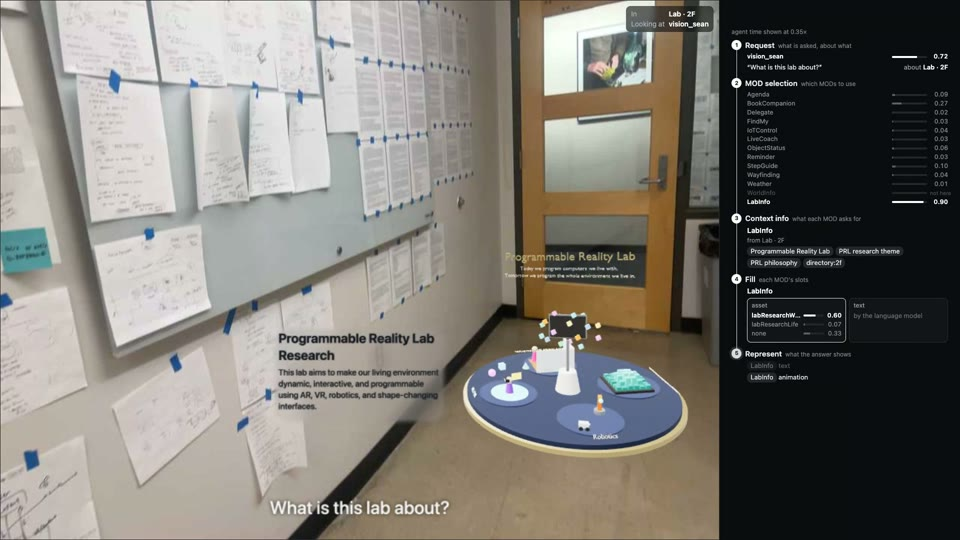
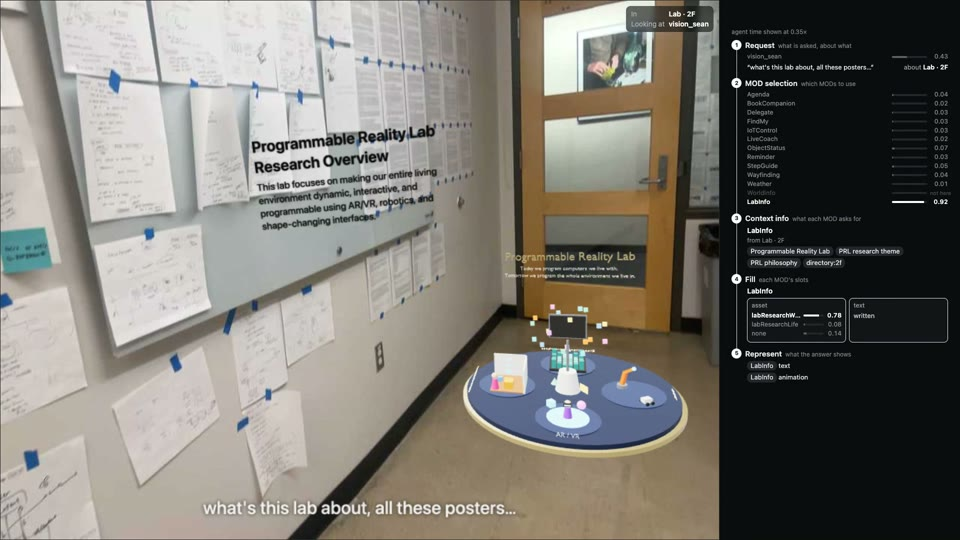
Natural clip questions re-recorded; yes/no rule covers fillers and dropped verbs; BookCompanion reads user:reading; whose-job printer clip

diff --git a/context/recordings/manifest.js b/context/recordings/manifest.js
@@ -1,1 +1,1 @@
-window.MANIFEST={"clips":{"weather-corridor":{"name":"weather-corridor","mod":"Weather","question":"Do I need an umbrella tonight?","recording":"atlas_rec_2","ask_at":1,"video":"weather/weather-corridor.mp4","poster":"weather/weather-corridor.jpg","chosen":[["weather",0.98]],"answer":{"title":"No Umbrella Needed Tonight","body":"You won't need an umbrella tonight as soft snowfall is forecasted instead of rain."},"latency":1.23,"agent_speed":0.35},"worldinfo-text":{"name":"worldinfo-text","mod":"WorldInfo","question":"What is this study about?","recording":"atlas_rec_3","ask_at":48.6,"video":"worldinfo/worldinfo-text.mp4","poster":"worldinfo/worldinfo-text.jpg","chosen":[["worldinfo",1]],"answer":{"title":"Music-Brain User Study Details","body":"This user study is conducted by the Brain Music Lab. You can scan to sign up after reading the eligibility requirements."},"latency":2.99,"agent_speed":0.35},"delegate-poster":{"name":"delegate-poster","mod":"Delegate","question":"Send this poster to Alice","recording":"atlas_rec_2","ask_at":7.1,"video":"delegate/delegate-poster.mp4","poster":"delegate/delegate-poster.jpg","chosen":[["delegate",0.98]],"answer":{"title":"Anastasia's Talk Poster","body":"Hi Alice, here is the poster for Anastasia's talk for your reference."},"latency":2.71,"agent_speed":0.35},"worldinfo-voice":{"name":"worldinfo-voice","mod":"WorldInfo","question":"Can I eat you?","recording":"atlas_rec_3","ask_at":18.1,"video":"worldinfo/worldinfo-voice.mp4","poster":"worldinfo/worldinfo-voice.jpg","chosen":[["worldinfo",1]],"answer":{"title":"Candy Availability","body":"Yes, you can eat me because I am leftover candy from this week's grad tea and people are welcome to help themselves."},"latency":2.48,"agent_speed":0.35},"labinfo-wall":{"name":"labinfo-wall","mod":"LabInfo","question":"What is this lab about?","recording":"atlas_rec_4","ask_at":1,"video":"labinfo/labinfo-wall.mp4","poster":"labinfo/labinfo-wall.jpg","chosen":[["labinfo",0.9]],"answer":{"title":"Programmable Reality Lab Research","body":"This lab aims to make our living environment dynamic, interactive, and programmable using AR, VR, robotics, and shape-changing interfaces."},"latency":1.97,"agent_speed":0.35},"findmy":{"name":"findmy","mod":"FindMy","question":"Where are my headphones?","recording":"atlas_rec_4","ask_at":7,"video":"findmy/findmy.mp4","poster":"findmy/findmy.jpg","chosen":[["findmy",0.92]],"answer":{"title":"Headphones Location","body":"Your headphones are on shelf 3."},"latency":1.02,"agent_speed":0.35},"wayfinding-kitchen":{"name":"wayfinding-kitchen","mod":"Wayfinding","question":"How do I get to the kitchen?","recording":"atlas_rec_4","ask_at":1,"video":"wayfinding/wayfinding-kitchen.mp4","poster":"wayfinding/wayfinding-kitchen.jpg","chosen":[["wayfinding",0.98]],"answer":{"title":"Directions to the Kitchen","body":"Exit the lab, turn right into the lab corridor, go north to the central corridor, and find the kitchen on your left."},"latency":1.05,"agent_speed":0.35},"agenda-afternoon":{"name":"agenda-afternoon","mod":"Agenda","question":"What do I have this afternoon?","recording":"atlas_rec_4","ask_at":2.5,"video":"agenda/agenda-afternoon.mp4","poster":"agenda/agenda-afternoon.jpg","chosen":[["agenda",0.97]],"answer":{"title":"Afternoon Schedule","body":"You have badminton and a group meeting this afternoon."},"latency":1.16,"agent_speed":0.35},"labinfo-panorama":{"name":"labinfo-panorama","mod":"LabInfo","question":"What does this lab work on?","recording":"atlas_rec_5","ask_at":1,"video":"labinfo/labinfo-panorama.mp4","poster":"labinfo/labinfo-panorama.jpg","chosen":[["labinfo",0.95]],"answer":{"title":"Programmable Reality Lab Research","body":"PRL researches programmable reality, aiming to make the living environment dynamic and interactive through AR/VR, robotics, and shape-changing interfaces."},"latency":1.76,"agent_speed":0.35},"weather-lab":{"name":"weather-lab","mod":"Weather","question":"Will it rain this weekend?","recording":"atlas_rec_5","ask_at":1.5,"video":"weather/weather-lab.mp4","poster":"weather/weather-lab.jpg","chosen":[["weather",0.98]],"answer":{"title":"Weekend weather forecast","body":"No rain is expected this weekend. Saturday brings drifting mist, clear skies, and soft snowfall, while Sunday features drifting mist and soft snowfall."},"latency":1.24,"agent_speed":0.35},"iotcontrol-brighter":{"name":"iotcontrol-brighter","mod":"IoTControl","question":"I want to make the light brighter","recording":"atlas_rec_5","ask_at":1,"video":"iotcontrol/iotcontrol-brighter.mp4","poster":"iotcontrol/iotcontrol-brighter.jpg","chosen":[["iotcontrol",0.98]],"answer":{"title":"Desk Lamp Brightness Increased","body":"I have increased the desk lamp brightness to 60 percent."},"latency":1.04,"agent_speed":0.35},"objectstatus-printer":{"name":"objectstatus-printer","mod":"ObjectStatus","question":"Is the printer free?","recording":"atlas_rec_5","ask_at":1,"video":"objectstatus/objectstatus-printer.mp4","poster":"objectstatus/objectstatus-printer.jpg","chosen":[["objectstatus",0.98]],"answer":{"title":"Printer Status","body":"No, the printer is in use printing a 12-page poster for Ana and has about 4 minutes left."},"latency":1.15,"agent_speed":0.35},"iotcontrol-printer":{"name":"iotcontrol-printer","mod":"IoTControl","question":"How long until my print job is done?","recording":"atlas_rec_5","ask_at":1,"video":"iotcontrol/iotcontrol-printer.mp4","poster":"iotcontrol/iotcontrol-printer.jpg","chosen":[["iotcontrol",0.98]],"answer":{"title":"Print job status","body":"Your print job has about 2 minutes left."},"latency":1.07,"agent_speed":0.35},"bookcompanion-lighthouse":{"name":"bookcompanion-lighthouse","mod":"BookCompanion","question":"Remind me what happened in the part I'm reading","recording":"atlas_rec_5","ask_at":5,"video":"bookcompanion/bookcompanion-lighthouse.mp4","poster":"bookcompanion/bookcompanion-lighthouse.jpg","chosen":[["bookcompanion",0.92]],"answer":{"title":"Current Reading","body":"No information about the part you are reading is currently available."},"latency":0.97,"agent_speed":0.35},"stepguide-espresso":{"name":"stepguide-espresso","mod":"StepGuide","question":"How do I make an espresso with this?","recording":"atlas_rec_5","ask_at":47,"video":"stepguide/stepguide-espresso.mp4","poster":"stepguide/stepguide-espresso.jpg","chosen":[["stepguide",0.9]],"answer":{"title":"Making an espresso","body":"Fill the water tank to the MAX line, grind 18 g of beans, tamp firmly, lock the portafilter in, and press the double-cup button."},"latency":1.2,"agent_speed":0.35},"livecoach-stretch":{"name":"livecoach-stretch","mod":"LiveCoach","question":"How should I stretch after sitting all day?","recording":"atlas_rec_5","ask_at":5.5,"video":"livecoach/livecoach-stretch.mp4","poster":"livecoach/livecoach-stretch.jpg","chosen":[["livecoach",0.64]],"answer":{"title":"Post-Sitting Stretch Routine","body":"Tilt ears to shoulders, roll shoulders back, round upper back, open chest, and do a seated spine twist."},"latency":1.2,"agent_speed":0.35},"reminder-espresso":{"name":"reminder-espresso","mod":"Reminder","question":"Remind me to refill the water tank tomorrow morning","recording":"atlas_rec_5","ask_at":48.5,"video":"reminder/reminder-espresso.mp4","poster":"reminder/reminder-espresso.jpg","chosen":[["reminder",0.97]],"answer":{"title":"Water Tank Reminder","body":"I will remind you to refill the water tank tomorrow morning."},"latency":1.04,"agent_speed":0.35},"weather-umbrella":{"name":"weather-umbrella","mod":"Weather","question":"Should I bring my umbrella?","recording":"atlas_rec_5","ask_at":1.5,"video":"weather/weather-umbrella.mp4","poster":"weather/weather-umbrella.jpg","chosen":[["findmy",0.59],["weather",0.96]],"answer":{"title":"Umbrella Check","body":"Yes, bring your umbrella because soft snowfall is expected this evening."},"latency":1.08,"agent_speed":0.35},"iotcontrol-tv":{"name":"iotcontrol-tv","mod":"IoTControl","question":"Switch the TV to HDMI 2","recording":"atlas_rec_5","ask_at":1,"video":"iotcontrol/iotcontrol-tv.mp4","poster":"iotcontrol/iotcontrol-tv.jpg","chosen":[["iotcontrol",0.99]],"answer":{"title":"TV Input Switched","body":"The TV is now set to HDMI 2."},"latency":0.99,"agent_speed":0.35},"delegate-describe":{"name":"delegate-describe","mod":"Delegate","question":"Describe this and draft a message to Alice","recording":"atlas_rec_2","ask_at":7.1,"video":"delegate/delegate-describe.mp4","poster":"delegate/delegate-describe.jpg","chosen":[["delegate",0.66]],"answer":{"title":"Anastasia's Talk Poster","body":"Anastasia Kouvaras Ostrowski, Assistant Professor at Purdue, focuses on HRI, HCI, and human-centered AI."},"latency":2.84,"agent_speed":0.35},"delegate-photo":{"name":"delegate-photo","mod":"Delegate","question":"Take a photo of this and send it to Alice","recording":"atlas_rec_2","ask_at":7.1,"video":"delegate/delegate-photo.mp4","poster":"delegate/delegate-photo.jpg","chosen":[["delegate",0.97]],"answer":{"title":"Poster of Anastasia's Talk","body":"Here is a photo of the Poster of Anastasia's Talk for you."},"latency":2.71,"agent_speed":0.35}},"recorded":"2026-11-18T02:04:04.720Z"};
+window.MANIFEST={"clips":{"weather-corridor":{"name":"weather-corridor","mod":"Weather","question":"hmm, do I need an umbrella tonight?","recording":"atlas_rec_2","ask_at":1,"video":"weather/weather-corridor.mp4","poster":"weather/weather-corridor.jpg","chosen":[["findmy",0.54],["weather",0.98]],"answer":{"title":"Yes","body":"Soft snowfall is expected this evening, so you will need your umbrella."},"latency":1.69,"agent_speed":0.35},"worldinfo-text":{"name":"worldinfo-text","mod":"WorldInfo","question":"what's this study about?","recording":"atlas_rec_3","ask_at":48.6,"video":"worldinfo/worldinfo-text.mp4","poster":"worldinfo/worldinfo-text.jpg","chosen":[["worldinfo",1]],"answer":{"title":"Music-Brain User Study","body":"This study lets you sign up in the brain music lab after reviewing the eligibility requirements."},"latency":2.62,"agent_speed":0.35},"delegate-poster":{"name":"delegate-poster","mod":"Delegate","question":"send this to Alice","recording":"atlas_rec_2","ask_at":7.1,"video":"delegate/delegate-poster.mp4","poster":"delegate/delegate-poster.jpg","chosen":[["delegate",0.98]],"answer":{"title":"Draft for Alice","body":"Hi Alice, here is a photo of the poster for Anastasia's talk for you."},"latency":2.99,"agent_speed":0.35},"worldinfo-voice":{"name":"worldinfo-voice","mod":"WorldInfo","question":"hey, can I eat you?","recording":"atlas_rec_3","ask_at":18.1,"video":"worldinfo/worldinfo-voice.mp4","poster":"worldinfo/worldinfo-voice.jpg","chosen":[["worldinfo",1]],"answer":{"title":"Yes","body":"You can eat me because I am grad tea leftover candy and people may help themselves."},"latency":2.31,"agent_speed":0.35},"labinfo-wall":{"name":"labinfo-wall","mod":"LabInfo","question":"what's this lab about, all these posters…","recording":"atlas_rec_4","ask_at":1,"video":"labinfo/labinfo-wall.mp4","poster":"labinfo/labinfo-wall.jpg","chosen":[["labinfo",0.92]],"answer":{"title":"Programmable Reality Lab Research Overview","body":"This lab focuses on making our entire living environment dynamic, interactive, and programmable using AR/VR, robotics, and shape-changing interfaces."},"latency":1.61,"agent_speed":0.35},"findmy":{"name":"findmy","mod":"FindMy","question":"wait, where did I put my headphones","recording":"atlas_rec_4","ask_at":7,"video":"findmy/findmy.mp4","poster":"findmy/findmy.jpg","chosen":[["findmy",0.92]],"answer":{"title":"Headphones on shelf 3","body":"Your headphones are on shelf 3 in the middle shelf."},"latency":1.69,"agent_speed":0.35},"wayfinding-kitchen":{"name":"wayfinding-kitchen","mod":"Wayfinding","question":"how do I get to the kitchen from here","recording":"atlas_rec_4","ask_at":1,"video":"wayfinding/wayfinding-kitchen.mp4","poster":"wayfinding/wayfinding-kitchen.jpg","chosen":[["wayfinding",0.97]],"answer":{"title":"Directions to the Kitchen","body":"Exit the lab into the lab corridor, head north to the central corridor, and the kitchen is on the west side."},"latency":1.59,"agent_speed":0.35},"agenda-afternoon":{"name":"agenda-afternoon","mod":"Agenda","question":"what's on this afternoon?","recording":"atlas_rec_4","ask_at":2.5,"video":"agenda/agenda-afternoon.mp4","poster":"agenda/agenda-afternoon.jpg","chosen":[["agenda",0.89]],"answer":{"title":"Nothing scheduled this afternoon","body":"You have no events scheduled for this afternoon."},"latency":1.38,"agent_speed":0.35},"labinfo-panorama":{"name":"labinfo-panorama","mod":"LabInfo","question":"so what do they actually work on in here?","recording":"atlas_rec_5","ask_at":1,"video":"labinfo/labinfo-panorama.mp4","poster":"labinfo/labinfo-panorama.jpg","chosen":[["labinfo",0.97]],"answer":{"title":"Programmable reality research","body":"We make the living environment dynamic and interactive using AR/VR, robotics, and shape-changing interfaces."},"latency":2.66,"agent_speed":0.35},"weather-lab":{"name":"weather-lab","mod":"Weather","question":"is it gonna rain this weekend?","recording":"atlas_rec_5","ask_at":1.5,"video":"weather/weather-lab.mp4","poster":"weather/weather-lab.jpg","chosen":[["weather",0.98]],"answer":{"title":"No","body":"The forecast shows mist, clear skies, and soft snowfall on Saturday and Sunday, with no rain expected."},"latency":1.54,"agent_speed":0.35},"iotcontrol-brighter":{"name":"iotcontrol-brighter","mod":"IoTControl","question":"kinda dark here… a bit brighter please","recording":"atlas_rec_5","ask_at":1,"video":"iotcontrol/iotcontrol-brighter.mp4","poster":"iotcontrol/iotcontrol-brighter.jpg","chosen":[["iotcontrol",0.97]],"answer":{"title":"Brightening the desk lamp","body":"I have increased the desk lamp brightness."},"latency":1.35,"agent_speed":0.35},"objectstatus-printer":{"name":"objectstatus-printer","mod":"ObjectStatus","question":"anything running low over here?","recording":"atlas_rec_5","ask_at":1,"video":"objectstatus/objectstatus-printer.mp4","poster":"objectstatus/objectstatus-printer.jpg","chosen":[["objectstatus",0.85]],"answer":{"title":"Yes","body":"The espresso machine water tank is almost empty, with only about one cup left."},"latency":1.36,"agent_speed":0.35},"iotcontrol-printer":{"name":"iotcontrol-printer","mod":"IoTControl","question":"how far along is the poster?","recording":"atlas_rec_5","ask_at":1,"video":"iotcontrol/iotcontrol-printer.mp4","poster":"iotcontrol/iotcontrol-printer.jpg","chosen":[["iotcontrol",0.61]],"answer":{"title":"Ana's Poster Printing Progress","body":"Ana's CHI poster is 7 of 12 pages done."},"latency":1.41,"agent_speed":0.35},"bookcompanion-lighthouse":{"name":"bookcompanion-lighthouse","mod":"BookCompanion","question":"wait, what happened in this chapter again?","recording":"atlas_rec_5","ask_at":5,"video":"bookcompanion/bookcompanion-lighthouse.mp4","poster":"bookcompanion/bookcompanion-lighthouse.jpg","chosen":[["bookcompanion",0.93]],"answer":{"title":"To the Lighthouse Part 2 Summary","body":"Ten years pass quickly, the summer house decays, and tragic family losses occur during the absence."},"latency":1.72,"agent_speed":0.35},"stepguide-espresso":{"name":"stepguide-espresso","mod":"StepGuide","question":"how do I even use this… for an espresso?","recording":"atlas_rec_5","ask_at":47,"video":"stepguide/stepguide-espresso.mp4","poster":"stepguide/stepguide-espresso.jpg","chosen":[["stepguide",0.95]],"answer":{"title":"Breville Espresso Instructions","body":"Fill the water tank, grind 18g of beans, tamp firmly, lock in the portafilter, and press the double-cup button."},"latency":1.91,"agent_speed":0.35},"livecoach-stretch":{"name":"livecoach-stretch","mod":"LiveCoach","question":"my back's killing me, any stretches?","recording":"atlas_rec_5","ask_at":5.5,"video":"livecoach/livecoach-stretch.mp4","poster":"livecoach/livecoach-stretch.jpg","chosen":[["livecoach",0.68]],"answer":{"title":"Desk stretch routine for back","body":"Try this quick 3-minute stretch: clasp hands in front, round your back and push away for 20 seconds."},"latency":1.72,"agent_speed":0.35},"reminder-espresso":{"name":"reminder-espresso","mod":"Reminder","question":"remind me tomorrow morning, refill the water tank","recording":"atlas_rec_5","ask_at":48.5,"video":"reminder/reminder-espresso.mp4","poster":"reminder/reminder-espresso.jpg","chosen":[["reminder",0.98]],"answer":{"title":"Water Tank Reminder","body":"I will remind you tomorrow morning to refill the water tank."},"latency":1.54,"agent_speed":0.35},"weather-umbrella":{"name":"weather-umbrella","mod":"Weather","question":"should I bring my umbrella?","recording":"atlas_rec_5","ask_at":1.5,"video":"weather/weather-umbrella.mp4","poster":"weather/weather-umbrella.jpg","chosen":[["findmy",0.57],["weather",0.96]],"answer":{"title":"Yes","body":"It is going to snow this evening, so you should bring your umbrella."},"latency":1.75,"agent_speed":0.35},"iotcontrol-tv":{"name":"iotcontrol-tv","mod":"IoTControl","question":"put the TV on HDMI 2","recording":"atlas_rec_5","ask_at":1,"video":"iotcontrol/iotcontrol-tv.mp4","poster":"iotcontrol/iotcontrol-tv.jpg","chosen":[["iotcontrol",0.98]],"answer":{"title":"TV set to HDMI 2","body":"The TV input is now set to HDMI 2."},"latency":1.54,"agent_speed":0.35},"delegate-describe":{"name":"delegate-describe","mod":"Delegate","question":"describe this for Alice, like a quick message","recording":"atlas_rec_2","ask_at":7.1,"video":"delegate/delegate-describe.mp4","poster":"delegate/delegate-describe.jpg","chosen":[["delegate",0.75]],"answer":{"title":"Anastasia Kouvaras Ostrowski Talk","body":"Here is a photo of Anastasia's talk poster. She focuses on HRI, HCI, and human-centered AI."},"latency":2.42,"agent_speed":0.35},"delegate-photo":{"name":"delegate-photo","mod":"Delegate","question":"take a pic of this, send it to Alice","recording":"atlas_rec_2","ask_at":7.1,"video":"delegate/delegate-photo.mp4","poster":"delegate/delegate-photo.jpg","chosen":[["delegate",0.98]],"answer":{"title":"Photo sent to Alice","body":"Here is a photo of the Poster of Anastasia's Talk attached for you."},"latency":2.77,"agent_speed":0.35},"iotcontrol-printer-whose":{"name":"iotcontrol-printer-whose","mod":"IoTControl","question":"whose is that printing?","recording":"atlas_rec_5","ask_at":1,"video":"iotcontrol/iotcontrol-printer-whose.mp4","poster":"iotcontrol/iotcontrol-printer-whose.jpg","chosen":[["iotcontrol",0.71]],"answer":{"title":"Ana Ruiz's CHI poster","body":"Ana Ruiz is currently printing her CHI poster."},"latency":1.79,"agent_speed":0.35}},"recorded":"2026-11-18T03:34:11.805Z"};

diff --git a/context/docs/modos-system-design.md b/context/docs/modos-system-design.md
@@ -881,6 +881,8 @@ The rebuild exists so that computation generalizes. Small, concrete features mad
 - **A device task is done of total, and whose.** `{title, done, total, unit, owner?}`: no time estimate anywhere (the context summary, the Progress Rail). A printer reports pages, not minutes.
 - **The panel components are gone** (`src/spatial-ui/kit.mjs` keeps only text: `label`, `wrapLines`); the cues replaced them (§4.3 describes the earlier panel library).
 - **Clip questions read like speech:** situated, casual, sometimes broken, and never about what can simply be seen.
+- **What the user is reading** is a user-context item (`user:reading`, about the user and the book); BookCompanion always asks for it, so "what happened in this chapter again?" is answered even when the book is not grounded as the referent.
+- **"whose is that printing?"** is answered by IoTControl (the job's owner is device state), so it is its own IoTControl clip; ObjectStatus asks "anything running low over here?".
 
 ### 10.17 Not Done Yet (2026-11-17, in priority order)
 
